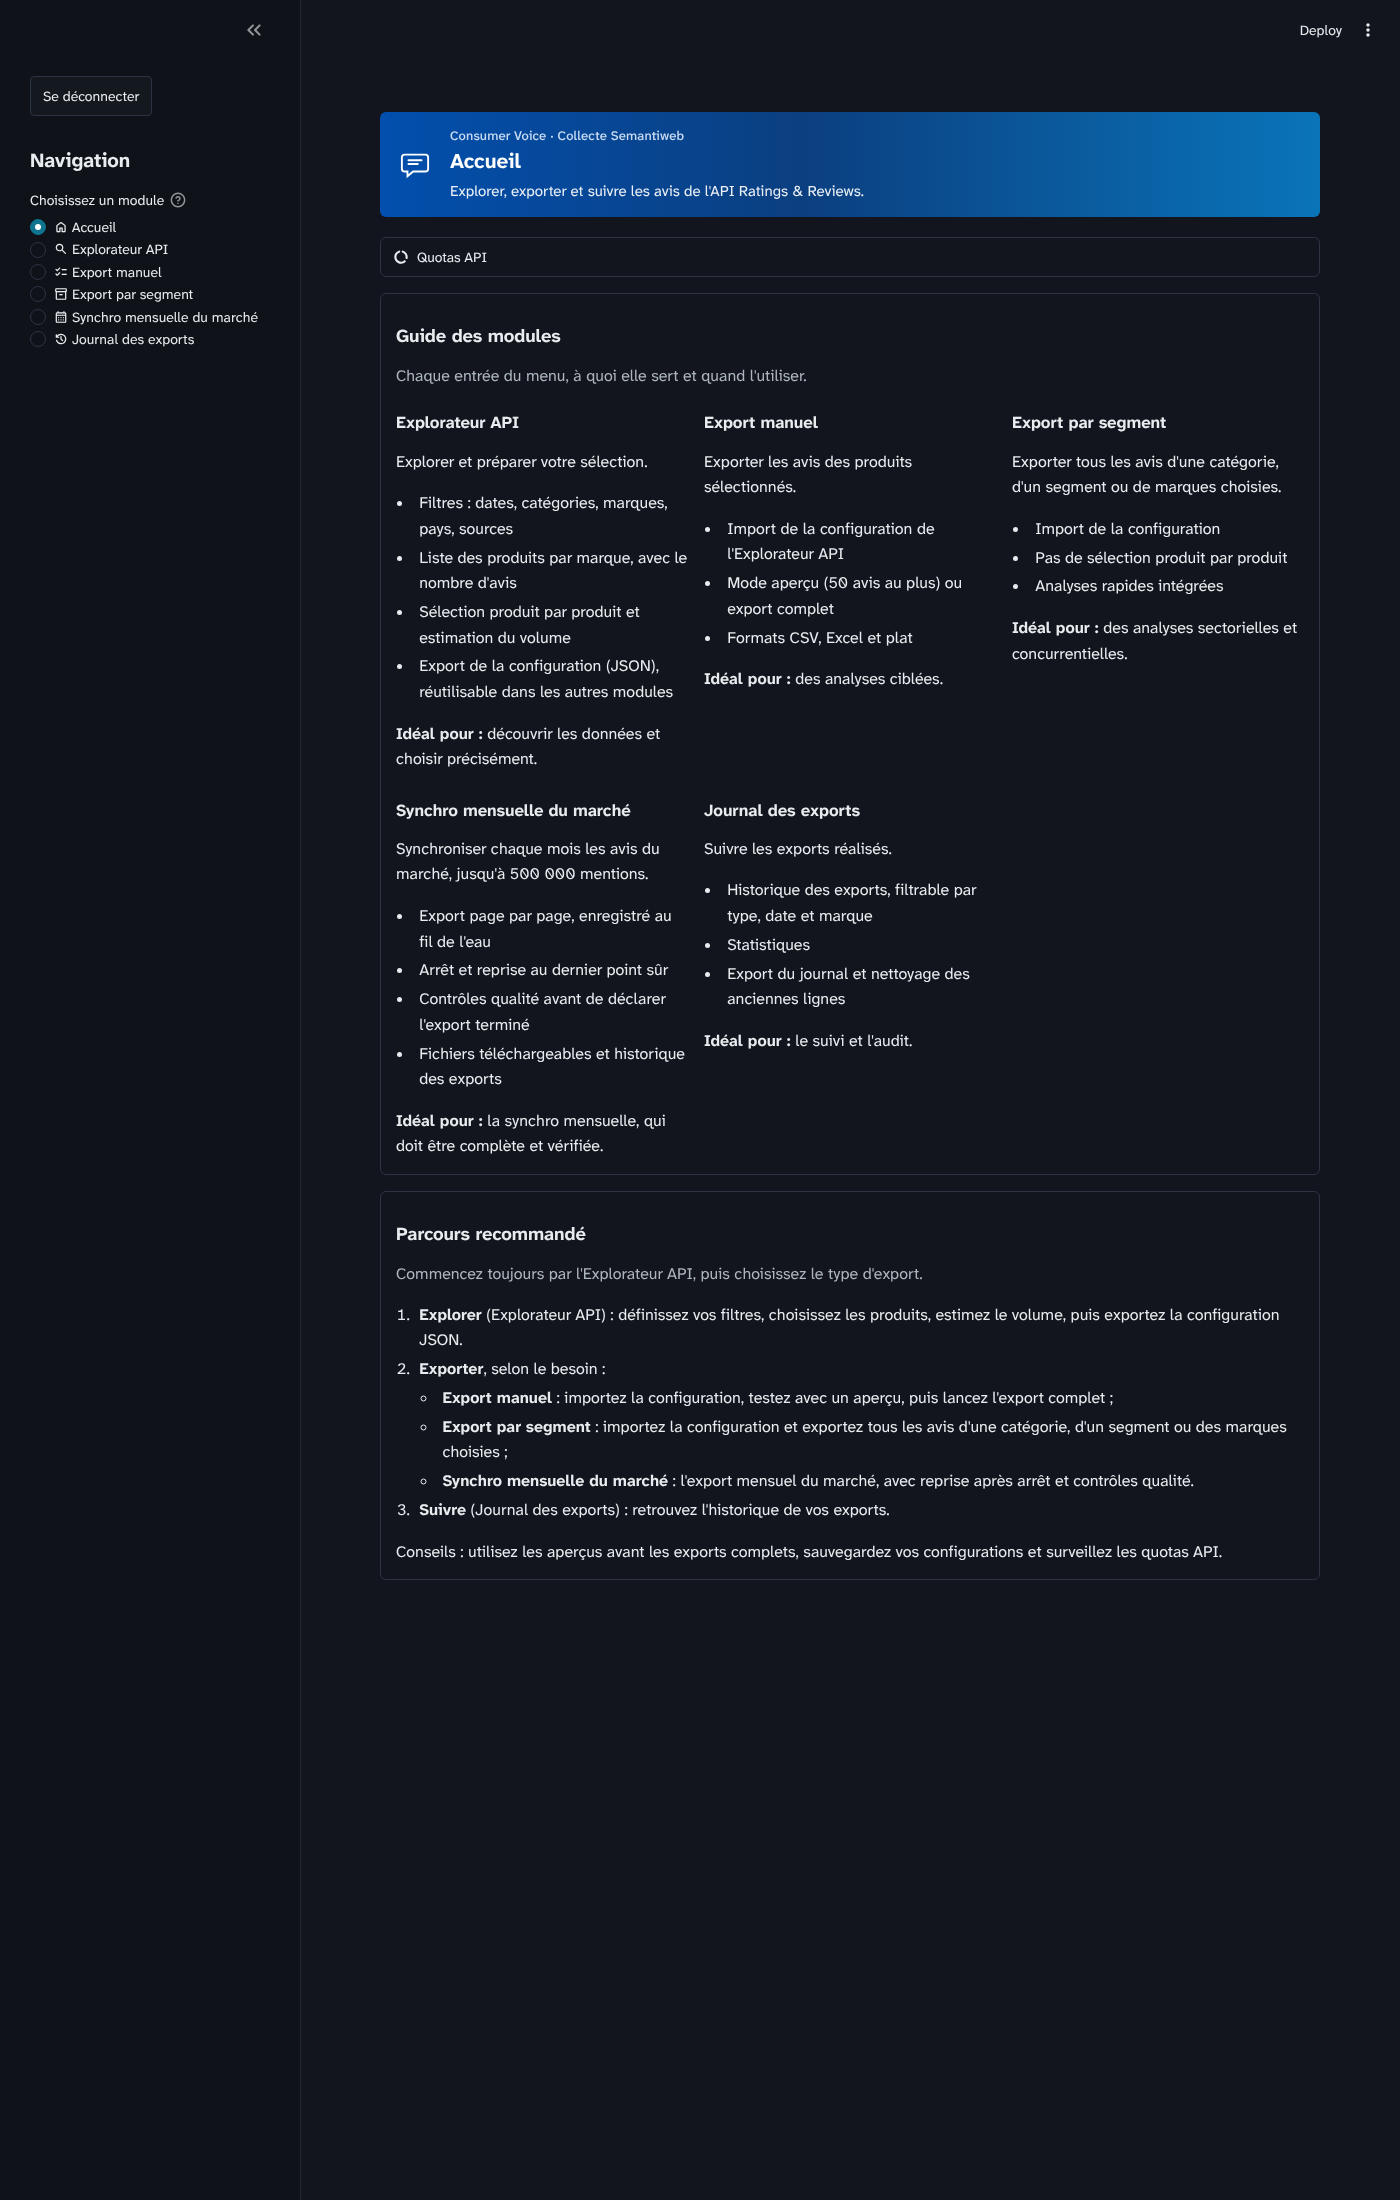
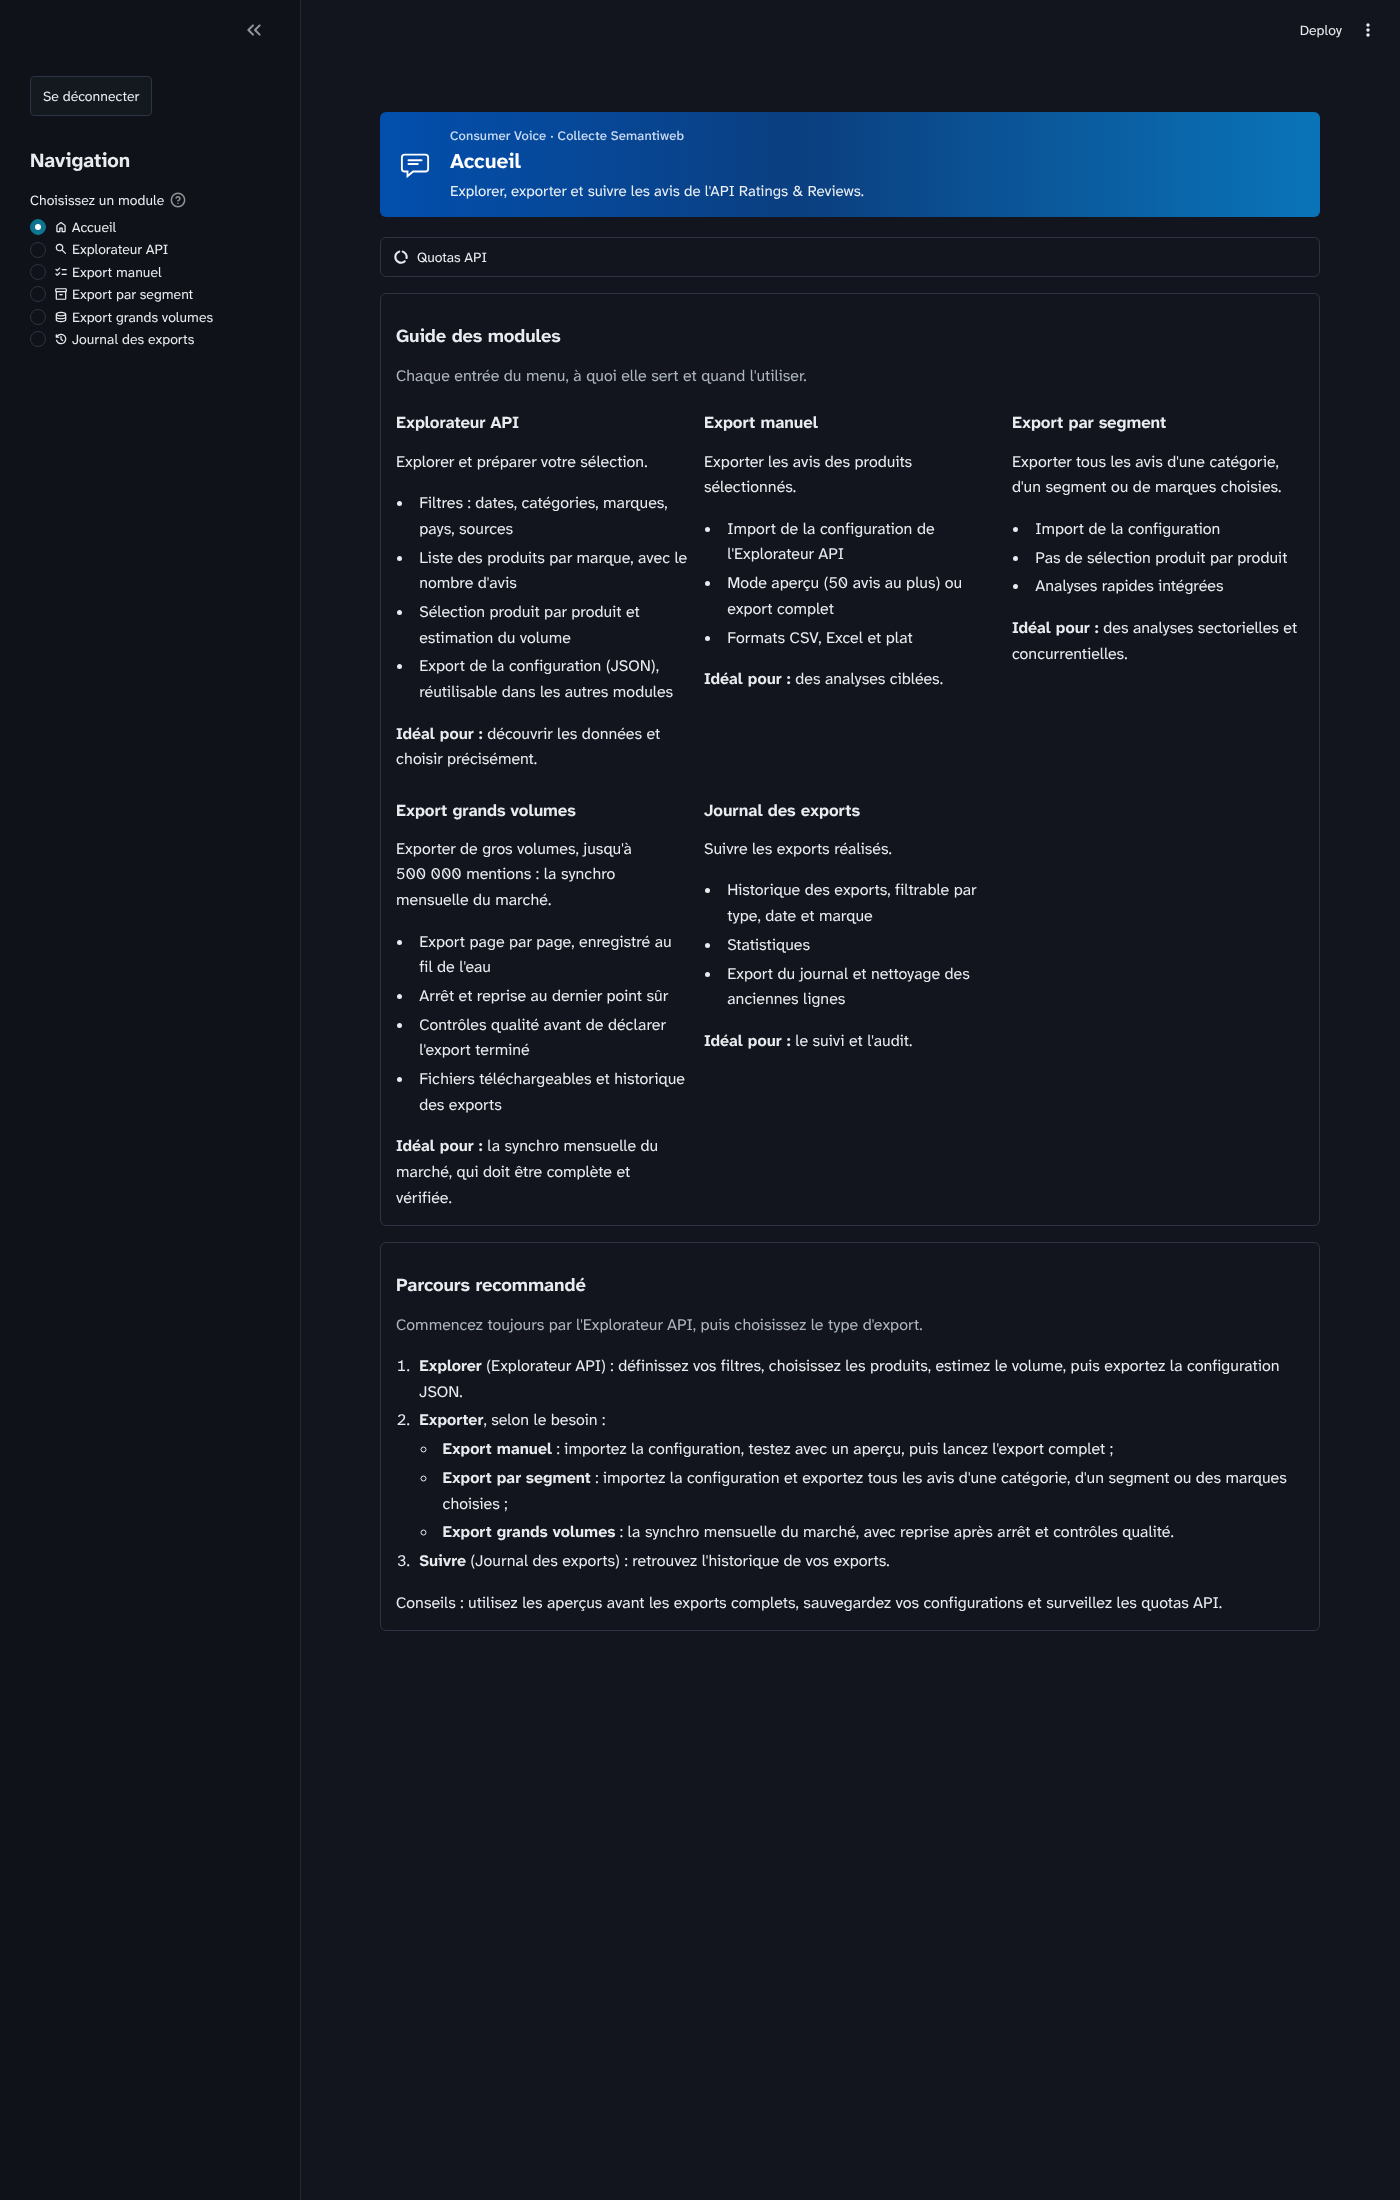
Nom de page : « Synchro mensuelle du marché » devient « Export grands volumes »
Le module 4 (Bulk Export V2) s'affiche « Export grands volumes » ; le bandeau et l'accueil
précisent qu'il sert à la synchro mensuelle du marché. Captures, tests et JOURNAL mis à jour.
320 tests verts.

Claude-Session: https://claude.ai/code/session_01XDoqtqASyHcMsefX2ftpn5

Changed region(s): [[0.2764, 0.34, 0.9214, 0.7418]]

diff --git a/main_app.py b/main_app.py
@@ -48,15 +48,15 @@ ACCUEIL = "Accueil"
 EXPLORATEUR = "Explorateur API"
 EXPORT_MANUEL = "Export manuel"
 EXPORT_SEGMENT = "Export par segment"           # module 3 (ancien « Export bulk »)
-SYNCHRO_MARCHE = "Synchro mensuelle du marché"  # module 4 (« Bulk Export V2 » dans le code et la doc)
+EXPORT_GRANDS_VOLUMES = "Export grands volumes"  # module 4 (« Bulk Export V2 » dans le code et la doc)
 JOURNAL = "Journal des exports"
 MODULES = {
     ACCUEIL: ("Explorer, exporter et suivre les avis de l'API Ratings & Reviews.", "home"),
     EXPLORATEUR: ("Filtrer, choisir les produits et estimer le volume avant un export.", "search"),
     EXPORT_MANUEL: ("Exporter les avis des produits sélectionnés, en aperçu ou en entier.", "checklist"),
     EXPORT_SEGMENT: (None, "inventory_2"),
-    SYNCHRO_MARCHE: ("Export mensuel du marché : traçable, reprenable et vérifiable, jusqu'à 500 000 mentions.",
-                     "calendar_month"),
+    EXPORT_GRANDS_VOLUMES: ("Export traçable, reprenable et vérifiable, jusqu'à 500 000 mentions "
+                            "(synchro mensuelle du marché).", "database"),
     JOURNAL: ("Historique des exports réalisés depuis cette application.", "history"),
 }
 
@@ -117,15 +117,15 @@ def display_module_descriptions():
         col4, col5, _ = st.columns(3)
 
         with col4:
-            st.subheader(SYNCHRO_MARCHE, anchor=False)
+            st.subheader(EXPORT_GRANDS_VOLUMES, anchor=False)
             st.markdown("""
-            Synchroniser chaque mois les avis du marché, jusqu'à 500 000 mentions.
+            Exporter de gros volumes, jusqu'à 500 000 mentions : la synchro mensuelle du marché.
             - Export page par page, enregistré au fil de l'eau
             - Arrêt et reprise au dernier point sûr
             - Contrôles qualité avant de déclarer l'export terminé
             - Fichiers téléchargeables et historique des exports
 
-            **Idéal pour :** la synchro mensuelle, qui doit être complète et vérifiée.
+            **Idéal pour :** la synchro mensuelle du marché, qui doit être complète et vérifiée.
             """)
 
         with col5:
@@ -150,7 +150,7 @@ def display_workflow_guide():
            - **{EXPORT_MANUEL}** : importez la configuration, testez avec un aperçu, puis lancez l'export complet ;
            - **{EXPORT_SEGMENT}** : importez la configuration et exportez tous les avis d'une catégorie,
              d'un segment ou des marques choisies ;
-           - **{SYNCHRO_MARCHE}** : l'export mensuel du marché, avec reprise après arrêt et contrôles qualité.
+           - **{EXPORT_GRANDS_VOLUMES}** : la synchro mensuelle du marché, avec reprise après arrêt et contrôles qualité.
         3. **Suivre** ({JOURNAL}) : retrouvez l'historique de vos exports.
 
         Conseils : utilisez les aperçus avant les exports complets, sauvegardez vos configurations
@@ -208,11 +208,11 @@ def main():
     elif module_choice == EXPORT_SEGMENT:
         module3_bulk_export.main()
 
-    elif module_choice == SYNCHRO_MARCHE:
+    elif module_choice == EXPORT_GRANDS_VOLUMES:
         if bulk_v2_available:
             module4_bulk_export_v2.main()
         else:
-            st.error(f"{SYNCHRO_MARCHE} indisponible ({type(bulk_v2_error).__name__}). Les autres modules "
+            st.error(f"{EXPORT_GRANDS_VOLUMES} indisponible ({type(bulk_v2_error).__name__}). Les autres modules "
                      "fonctionnent ; vérifiez l'installation de l'application, puis rechargez la page.",
                      icon=":material/error:")
 

diff --git a/tests/test_app_smoke.py b/tests/test_app_smoke.py
@@ -2,7 +2,7 @@
 
 - Bulk Export V2 sans Supabase : message clair, pas de plantage.
 - Bulk Export V2 avec la base de test : le Monitor affiche un export et ses événements.
-- Application principale : l'accueil, les 4 entrées d'origine et la Synchro mensuelle du marché se chargent.
+- Application principale : l'accueil, les 4 entrées d'origine et l'Export grands volumes se chargent.
 """
 
 import json
@@ -131,7 +131,7 @@ def test_application_principale_toutes_les_entrees():
     assert not at.exception, at.exception
     nav = at.sidebar.radio[0]
     assert [o.split(": ", 1)[1] for o in nav.options] == ["Accueil", "Explorateur API", "Export manuel",
-                                                           "Export par segment", "Synchro mensuelle du marché",
+                                                           "Export par segment", "Export grands volumes",
                                                            "Journal des exports"]
     for option in nav.options:
         at.sidebar.radio[0].set_value(option).run()

diff --git a/tests/test_auth.py b/tests/test_auth.py
@@ -92,7 +92,7 @@ def test_t3_bon_mot_de_passe_puis_t5_rafraichissement(monkeypatch):
     monkeypatch.setattr(requests, "get", lambda *a, **k: R())
     at = login(app().run(), FAKE_PASSWORD)
     assert not at.exception, at.exception
-    assert len(at.sidebar.radio) == 1 and ":material/calendar_month: Synchro mensuelle du marché" in at.sidebar.radio[0].options  # T3
+    assert len(at.sidebar.radio) == 1 and ":material/database: Export grands volumes" in at.sidebar.radio[0].options  # T3
     assert "mot_de_passe_saisi" not in at.session_state  # S4 : saisie effacée
     fresh = app().run()  # T5 : nouvelle session (rafraîchissement) → mot de passe redemandé
     assert [t.value for t in fresh.title] == ["Accès protégé"]

diff --git a/module4_bulk_export_v2.py b/module4_bulk_export_v2.py
@@ -105,7 +105,7 @@ def _filters_form() -> dict[str, str]:
 
 
 def _import_block() -> dict[str, str] | None:
-    text = st.text_area("Collez une configuration JSON (Synchro mensuelle, ou ancien format des autres modules)",
+    text = st.text_area("Collez une configuration JSON (Export grands volumes, ou ancien format des autres modules)",
                         height=160, key="bv2_import_text")
     if st.button("Charger la configuration", key="bv2_import_btn", icon=":material/upload_file:"):
         try:

diff --git a/docs/bulk_v2/JOURNAL.md b/docs/bulk_v2/JOURNAL.md
@@ -648,7 +648,7 @@ Référence : `docs/charte/DESIGN_GUIDE.md` et `docs/charte/SPRINT_charte.md`. S
 ### Noms des pages (22/10/2026, décision de l'utilisateur)
 Noms affichés alignés sur l'usage de chaque page :
 - module 3 (« Export bulk », V1) → **Export par segment** : catégories, segments, marques ;
-- module 4 (« Bulk Export V2 ») → **Synchro mensuelle du marché**.
+- module 4 (« Bulk Export V2 ») → **Export grands volumes** (sert à la synchro mensuelle du marché).
 Seuls les libellés à l'écran changent : les fichiers, le paquet `bulk_export`, le schéma `bulk_export` et la
 documentation gardent le nom « Bulk Export V2 ». Le module 3 étant non modifiable, son propre titre
 (« Module 3 - Export Bulk ») ne change pas.
